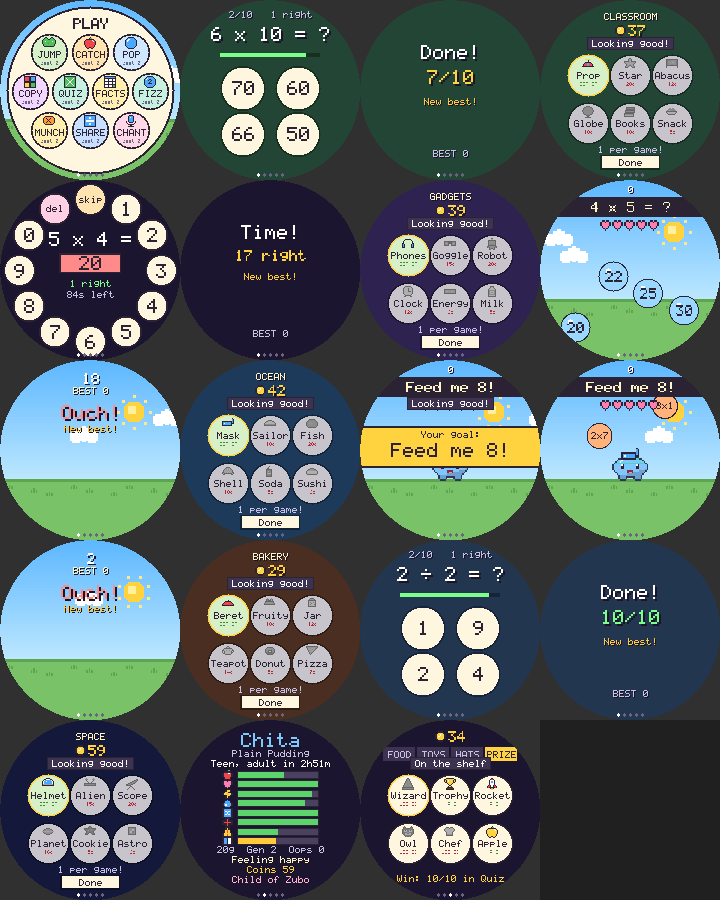
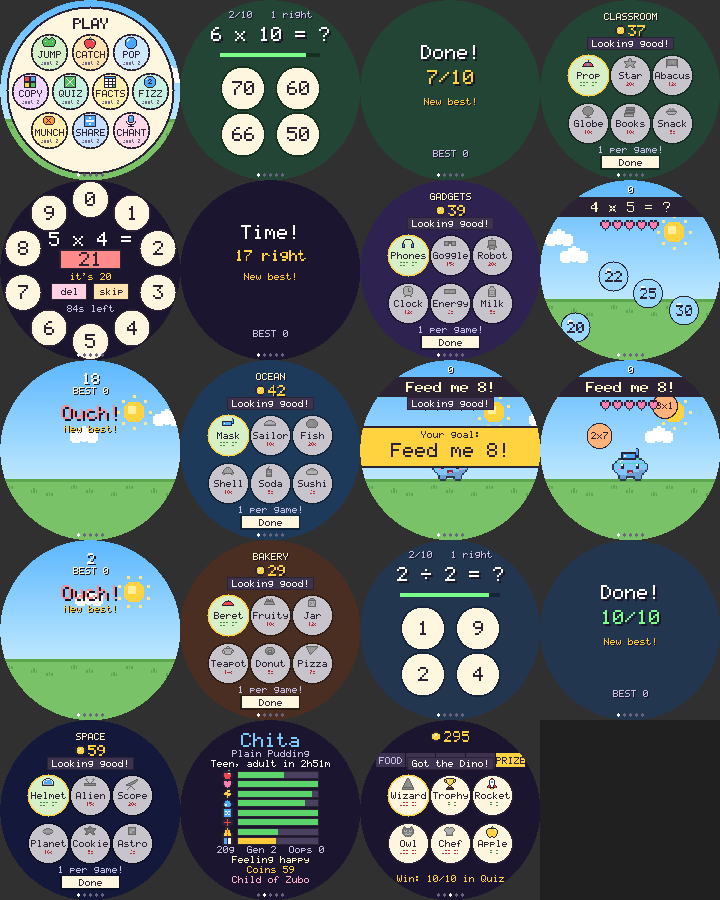
Facts: only the ten digits on the ring (bigger keys), delete and skip moved to the middle so a missed 1 can't skip; a wrong answer shows what was typed and the right one

Changed region(s): [[0.0, 0.1867, 0.2444, 0.4044], [0.5194, 0.8089, 0.7333, 0.8711]]

diff --git a/components/orbling/pet_engine.cpp b/components/orbling/pet_engine.cpp
@@ -1462,26 +1462,36 @@ static void menu_pos(int i, int &x, int &y) {
     x = 98 + (i - 7) * 82;
   }
 }
-// Facts keypad: twelve round keys round the edge like a clock, digits 1-9 at one to nine o'clock, 0 at ten,
-// delete at eleven and skip at twelve. A touch anywhere in the outer ring counts for the key it is nearest by
-// angle, so a slightly missed key still counts and the next key is a whole 30 degrees away.
-static const int FK_R = 142, FK_KEY_R = 30, FK_INNER = 78;
-static int fk_slot(int key) { return key == 0 ? 10 : key == 10 ? 11 : key == 11 ? 12 : key; }
+// Facts keypad: the ten digits round the edge like a rotary dial (0 at the top, then 1 to 9 clockwise), and
+// delete and skip as two buttons in the middle, away from the digits so a missed digit can't skip the question.
+// A touch anywhere in the outer ring counts for the digit it is nearest by angle (each has 36 degrees).
+static const int FK_R = 142, FK_KEY_R = 36, FK_INNER = 100;
+static const int FK_BTN_Y = 222, FK_BTN_W = 72, FK_BTN_H = 34, FK_DEL_X = 138, FK_SKIP_X = 222;
 void PetEngine::facts_key_pos(int key, int &x, int &y, int &w) {
-  float a = fk_slot(key) * 3.14159265f / 6.0f;
+  if (key >= 10) {  // 10 delete, 11 skip
+    x = key == 10 ? FK_DEL_X : FK_SKIP_X;
+    y = FK_BTN_Y;
+    w = FK_BTN_W;
+    return;
+  }
+  float a = key * 3.14159265f / 5.0f;
   x = 180 + (int) lroundf(FK_R * sinf(a));
   y = 180 - (int) lroundf(FK_R * cosf(a));
   w = 2 * FK_KEY_R;
 }
-// Which key a touch is for, or -1 (the middle, where the question is).
+// Which key a touch is for, or -1 (nothing there).
 static int facts_key_at(int x, int y) {
   int dx = x - 180, dy = y - 180;
-  if (dx * dx + dy * dy < FK_INNER * FK_INNER) return -1;
-  float a = atan2f((float) dx, (float) -dy);  // 0 at twelve o'clock, clockwise
-  if (a < 0) a += 2 * 3.14159265f;
-  int slot = (int) lroundf(a / (3.14159265f / 6.0f));
-  if (slot == 0) slot = 12;
-  return slot == 10 ? 0 : slot == 11 ? 10 : slot == 12 ? 11 : slot;
+  if (dx * dx + dy * dy >= FK_INNER * FK_INNER) {
+    float a = atan2f((float) dx, (float) -dy);  // 0 at the top, clockwise
+    if (a < 0) a += 2 * 3.14159265f;
+    return (int) lroundf(a / (3.14159265f / 5.0f)) % 10;
+  }
+  if (abs(y - FK_BTN_Y) <= FK_BTN_H / 2 + 4) {
+    if (abs(x - FK_DEL_X) <= FK_BTN_W / 2 + 2) return 10;
+    if (abs(x - FK_SKIP_X) <= FK_BTN_W / 2 + 2) return 11;
+  }
+  return -1;
 }
 static void pad_center(int i, int &x, int &y) {
   x = 180 + (i % 2 ? PAD_OFF : -PAD_OFF);
@@ -3191,38 +3201,48 @@ void PetEngine::draw_facts(Canvas &c, uint32_t now) {
     return;
   }
   int secs = (int) ((int32_t) (game_end_ms_ - now) / 1000) + 1;
-  // In the middle: the question, the answer box, then the score and the time left. The keys ring the edge.
+  // In the middle: the question, the answer box, the score (or, after an answer, what the answer was), delete
+  // and skip, and the time left. The digits ring the edge.
   snprintf(buf, sizeof(buf), "%d x %d =", ma_, mb_);
   if (strlen(buf) > 7)
-    text(c, 180, 110, buf, 3, 0xFFFFFF);  // "10 x 10 =" at the big size would touch the 0 and 2 keys
+    text(c, 180, 108, buf, 3, 0xFFFFFF);  // "10 x 10 =" at the big size would touch the keys
   else
     text(c, 180, 104, buf, 4, 0xFFFFFF);
+  int need = mans_ >= 100 ? 3 : (mans_ >= 10 ? 2 : 1);
+  bool skipped = feedback_ == 2 && entry_len_ < need;
   uint32_t box = feedback_ == 1 ? 0x7CFF8A : feedback_ == 2 ? 0xFF8A8A : 0xFFF6E0;
-  rect(c, 118, 146, 124, 40, 0x2B2233);
-  rect(c, 121, 149, 118, 34, box);
+  rect(c, 118, 138, 124, 40, 0x2B2233);
+  rect(c, 121, 141, 118, 34, box);
   if (feedback_ == 2)
-    snprintf(buf, sizeof(buf), "%d", mans_);
+    snprintf(buf, sizeof(buf), skipped ? "-" : "%d", entry_);  // what was typed, so a slip is easy to see
   else if (entry_len_)
     snprintf(buf, sizeof(buf), "%d%s", entry_, (now / 400) % 2 ? "_" : " ");
   else
     snprintf(buf, sizeof(buf), "%s", (now / 400) % 2 ? "_" : " ");
-  text(c, 180, 152, buf, 4, 0x2B2233, true, false);
-  snprintf(buf, sizeof(buf), "%d right", run_score_);
-  text(c, 180, 200, buf, 2, 0x7CFF8A);
-  snprintf(buf, sizeof(buf), "%ds left", secs < 0 ? 0 : secs);
-  text(c, 180, 222, buf, 2, secs <= 10 ? 0xFF8A8A : 0xC9C2E8);
-  for (int k = 0; k < 12; k++) {
+  text(c, 180, 144, buf, 4, 0x2B2233, true, false);
+  if (feedback_ == 2) {
+    snprintf(buf, sizeof(buf), skipped ? "skipped: %d" : "it's %d", mans_);
+    text(c, 180, 186, buf, 2, 0xFFD23F);
+  } else {
+    snprintf(buf, sizeof(buf), "%d right", run_score_);
+    text(c, 180, 186, buf, 2, 0x7CFF8A);
+  }
+  for (int k = 10; k <= 11; k++) {
     int kx, ky, kw;
     facts_key_pos(k, kx, ky, kw);
-    uint32_t face = k == 10 ? 0xFFD0E4 : k == 11 ? 0xFFE3B0 : 0xFFF6E0;
+    rect(c, kx - kw / 2, ky - FK_BTN_H / 2, kw, FK_BTN_H, 0x2B2233);
+    rect(c, kx - kw / 2 + 2, ky - FK_BTN_H / 2 + 2, kw - 4, FK_BTN_H - 4, k == 10 ? 0xFFD0E4 : 0xFFE3B0);
+    text(c, kx, ky - 7, k == 10 ? "del" : "skip", 2, 0x2B2233, true, false);
+  }
+  snprintf(buf, sizeof(buf), "%ds left", secs < 0 ? 0 : secs);
+  text(c, 180, 250, buf, 2, secs <= 10 ? 0xFF8A8A : 0xC9C2E8);
+  for (int k = 0; k < 10; k++) {
+    int kx, ky, kw;
+    facts_key_pos(k, kx, ky, kw);
     circle(c, kx, ky, FK_KEY_R + 2, 0x2B2233);
-    circle(c, kx, ky, FK_KEY_R - 1, face);
-    if (k < 10) {
-      char d[2] = {(char) ('0' + k), 0};
-      text(c, kx, ky - 13, d, 4, 0x2B2233, true, false);
-    } else {
-      text(c, kx, ky - 7, k == 10 ? "del" : "skip", 2, 0x2B2233, true, false);
-    }
+    circle(c, kx, ky, FK_KEY_R - 1, 0xFFF6E0);
+    char d[2] = {(char) ('0' + k), 0};
+    text(c, kx, ky - 14, d, 4, 0x2B2233, true, false);
   }
 }
 

diff --git a/sim/sim.cpp b/sim/sim.cpp
@@ -955,6 +955,28 @@ int main(int argc, char **argv) {
       printf("\n");
     }
 
+  {  // Facts: the right answer typed with sloppy taps (up to 15 degrees and 20 px off a digit) always counts
+    prep(e, 8, STAGE_ADULT);
+    uint32_t t = 30000;
+    e.start_game(GAME_FACTS);
+    tap(e, 180, 180, t);
+    int asked = 0;
+    for (int q = 0; q < 30 && e.in_game(); q++) {
+      std::string digits = std::to_string(e.math_answer());
+      for (size_t i = 0; i < digits.size(); i++) {
+        int k = digits[i] - '0';
+        float a = (k * 36 + (int) ((q + i) % 3 - 1) * 15) * 3.14159265f / 180.0f;
+        float r = 142 + (int) (q % 3 - 1) * 20;
+        tap(e, 180 + (int) lroundf(r * sinf(a)), 180 - (int) lroundf(r * cosf(a)), t);
+      }
+      asked++;
+      t += 700;
+      e.loop(t);
+    }
+    printf("facts sloppy taps: %d right of %d\n", e.run_score(), asked);
+    if (e.run_score() != asked) abort();
+  }
+
   {  // a swipe up from the bottom edge goes home: from a game, and from the times tables page
     prep(e, 6, STAGE_ADULT);
     uint32_t t = 20000;

diff --git a/README.md b/README.md
@@ -119,9 +119,10 @@ energy, Jump and Catch burn a little weight, and each game keeps its best score.
   turns green; a wrong one turns red and the right one lights up, with the whole fact underneath. The wrong
   answers are the tempting ones (a neighbouring row or column, or one off). Questions start with the easy tables
   (x2, x5, x10), then add x3 and x4, then everything up to 10 x 10.
-- **Facts** (times tables): "6 x 4 =" in the middle and twelve round keys round the edge like a clock (1-9 at one to
-  nine o'clock, 0 at ten, delete at eleven, skip at twelve; a touch counts for the nearest key); type the answer, as many as you can in 90 seconds. It
-  checks as soon as enough digits are typed; a wrong answer shows the right one. `< del` deletes a digit, `skip` skips
+- **Facts** (times tables): "6 x 4 =" in the middle and the ten digits round the edge like a rotary dial (0 at the top, then
+  1 to 9 clockwise; a touch counts for the nearest digit), with delete and skip as buttons in the middle; type the answer, as many as you can in 90 seconds. It
+  checks as soon as enough digits are typed; a wrong answer shows what was typed in red and the
+  right one under it ("it's 24"). `< del` deletes a digit, `skip` skips
   (and shows the answer). It moves on to harder tables as the score goes up (x3 and x4 after 5 right, everything after 12).
 
 - **Fizz** (times tables): "6 x 7 = ?" and four number bubbles float up; pop the right one before it gets away.
